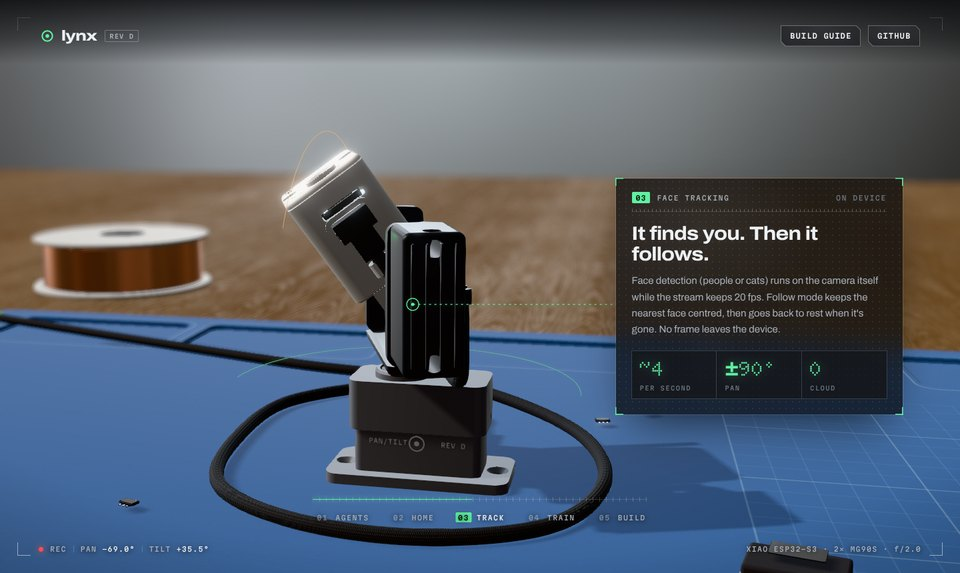
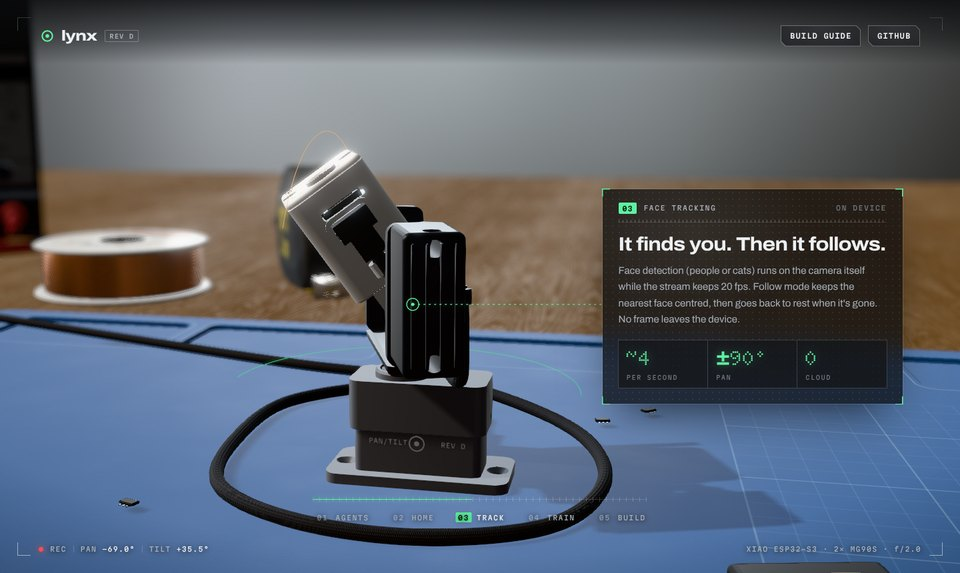
fix(web): phone chapters change with their module; screenshots of the final site
- on phones and portrait tablets a chapter's scene now starts as its section
  rises into view and ends as its module leaves, the same span the module is
  docked for, so the product changes with the module instead of half a
  screen later (and the build chapter keeps its module while it assembles)
- desktop headline sized so it wraps in two lines at 1440 px
- the site screenshots and README thumbnails re-rendered

Claude-Session: https://claude.ai/code/session_01Wtc9ajMqynx5qZN69WG8Yj

Changed region(s): [[0.0, 0.0, 0.9375, 1.0], [0.2812, 0.267, 0.375, 0.534]]

diff --git a/web/src/style.css b/web/src/style.css
@@ -134,7 +134,7 @@ body::after { opacity: .07; mix-blend-mode: soft-light;
 .beat[data-beat="assembly"] { min-height: 170vh; }
 
 /* ---------------------------------------------------------------- modules: datasheet panels on perfboard */
-.slab { --rx: 0deg; --ry: 0deg; --mx: 30%; --my: 20%; position: relative; pointer-events: auto; width: min(430px, 88vw);
+.slab { --rx: 0deg; --ry: 0deg; --mx: 30%; --my: 20%; position: relative; pointer-events: auto; width: min(450px, 88vw);
   perspective: 1100px; opacity: 0; transform: translateY(36px); transition: opacity .8s var(--ease), transform .8s var(--ease); }
 .slab.in { opacity: 1; transform: none; }
 .slab.left { margin-right: auto; } .slab.right { margin-left: auto; }
@@ -149,7 +149,7 @@ body::after { opacity: .07; mix-blend-mode: soft-light;
 .slab h1, .slab h2 { transform: translateZ(30px); }
 .slab p, .slab .stats { transform: translateZ(14px); }
 .slab .eyebrow { transform: translateZ(20px); }
-.slab h1 { font: 760 clamp(32px, 3vw, 44px)/1.0 var(--display); font-stretch: 118%; letter-spacing: -0.035em; margin: 0 0 16px; }
+.slab h1 { font: 760 clamp(30px, 2.7vw, 40px)/1.0 var(--display); font-stretch: 118%; letter-spacing: -0.035em; margin: 0 0 16px; }
 .slab h2 { font: 720 clamp(23px, 2vw, 29px)/1.06 var(--display); font-stretch: 114%; letter-spacing: -0.03em; margin: 0 0 12px; }
 .slab p { color: var(--muted); font-size: 15px; line-height: 1.62; }
 .slab p em { font-style: normal; color: var(--ink); }
@@ -248,6 +248,8 @@ body::after { opacity: .07; mix-blend-mode: soft-light;
   .hud { padding: 16px 18px 20px; }
   .brand { font-size: 19px; }
   .brand .rev { display: none; }
+  /* a module docks from when its chapter rises into view until the chapter's end (a rail's height of
+     padding) reaches the screen's bottom and carries it up; main.js times the scene to the same span */
   .beat { align-items: flex-end; padding: 0 12px calc(86px + env(safe-area-inset-bottom)); }
   .slab { position: sticky; bottom: calc(86px + env(safe-area-inset-bottom)); width: min(100%, 560px); margin-inline: auto; }
   .slab, .slab.in { opacity: 1; transform: none; transition: none; }   /* motion follows the scroll, not a timer */

diff --git a/web/src/main.js b/web/src/main.js
@@ -59,8 +59,17 @@ function toShot(tl, name, at, dur = 1) {
   tl.to(cam, { fov: s.fov, shift: s.shift, duration: dur, ease: "power2.inOut" }, at);
 }
 const beats = [...document.querySelectorAll(".beat")];
-let beatAt = [];
-const measureBeats = () => { const H = document.documentElement.scrollHeight - innerHeight; beatAt = beats.map((b) => b.offsetTop / H); };
+// Where each chapter starts, as timeline progress. Wide screens: when its section's top reaches the top
+// of the screen (the module beside the product fades in about then). Phones and portrait tablets dock
+// a chapter's module from when its section rises into view until the section's end reaches the bottom,
+// so there a chapter starts as its section enters at the bottom, and the scene changes with the module.
+const DOCKED = matchMedia("(max-width: 760px), (max-aspect-ratio: 17/20)");
+let beatAt = [], chapterLead = 0;
+const measureBeats = () => {
+  const H = document.documentElement.scrollHeight - innerHeight, shift = DOCKED.matches ? innerHeight : 0;
+  chapterLead = DOCKED.matches ? 0 : innerHeight * 0.45;
+  beatAt = beats.map((b, i) => (i ? Math.max(0, b.offsetTop - shift) : 0) / H);
+};
 measureBeats();
 const at = (i) => beatAt[i];   // cached: no layout reads inside the frame loop
 
@@ -189,7 +198,7 @@ function updateReadout(livePan, liveTilt) {
 }
 const chapters = beats.map((b) => ({ anchor: b.dataset.anchor, slab: b.querySelector(".slab"), face: b.querySelector(".slab .face") }));
 function currentChapter() {
-  const y = (goal * scrollRange + viewH * 0.45) / scrollRange;
+  const y = (goal * scrollRange + chapterLead) / scrollRange;
   let cur = 0;
   beatAt.forEach((t, i) => { if (t <= y) cur = i; });
   return cur;
